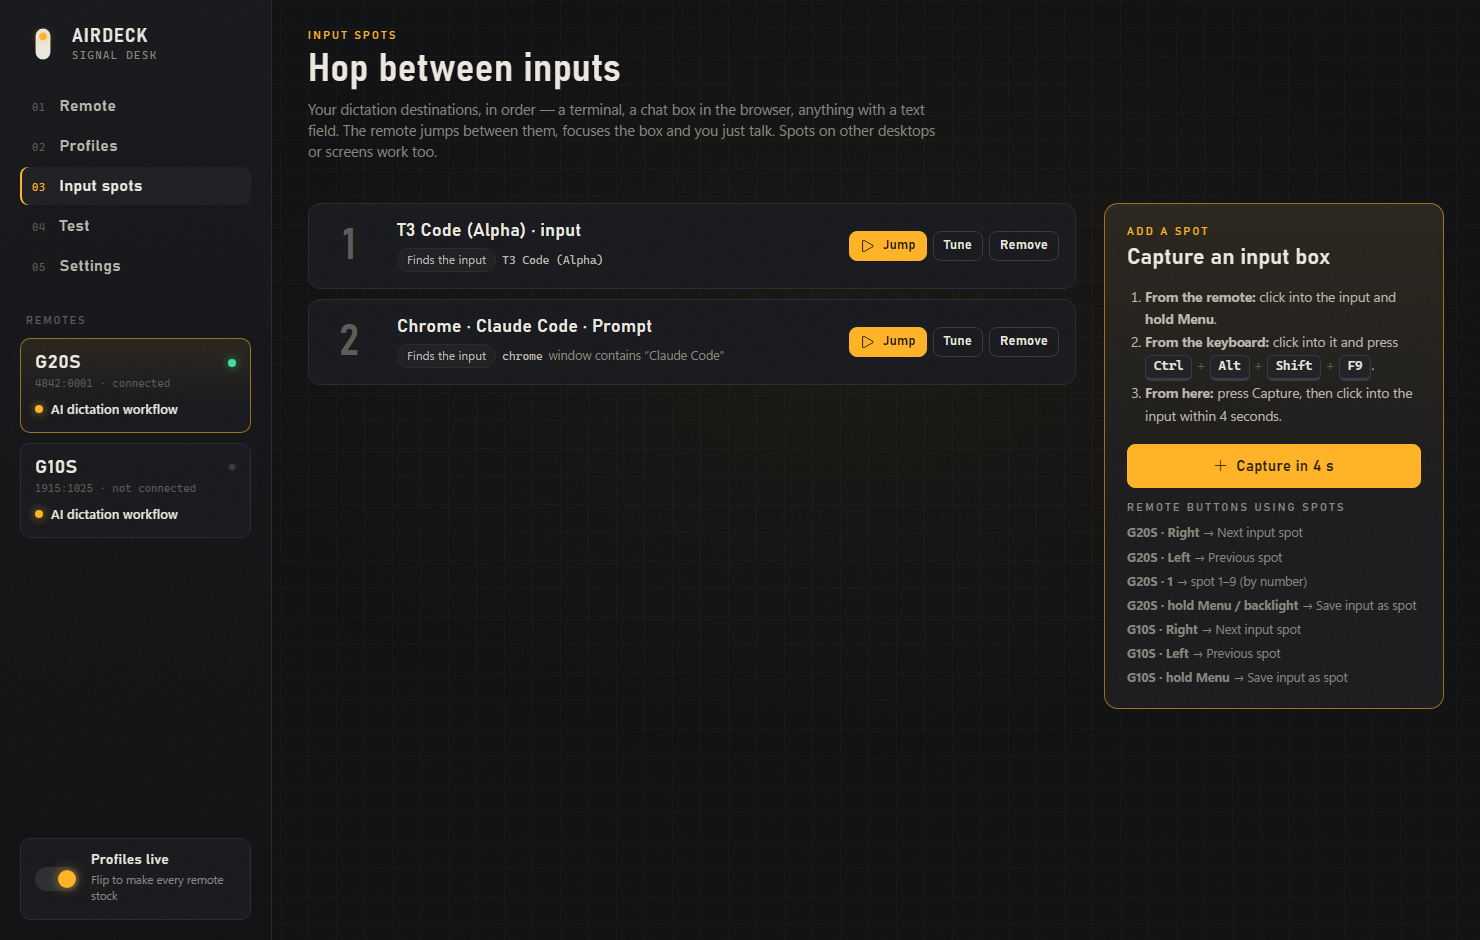
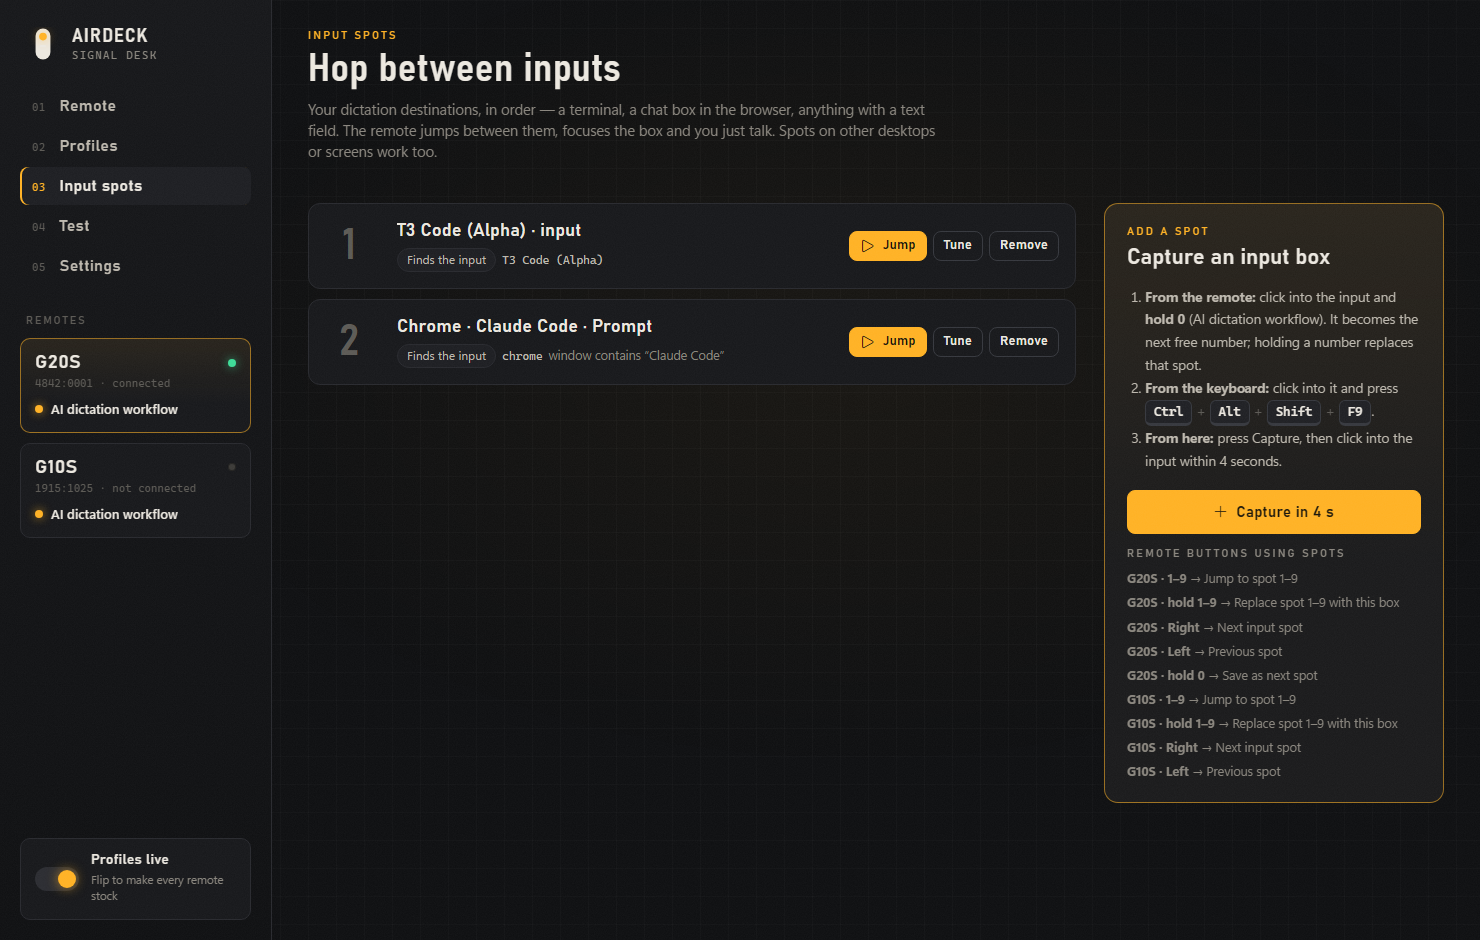
Arrow holds move windows between screens; hold 0 saves the next free spot
- AI dictation: hold Right/Left/Up/Down moves the window you're in to the screen that way
  (replaces jumping focus and "hold 0 = next screen")
- Hold 0 saves the box you're in as the next free spot; holding a number replaces that spot.
  The notice names the number; the capture picker shows the next free number
- Clearer names ("Window to left screen", "Save as next spot"); help texts no longer say hold Menu
- Input spots page lists remote bindings one line per job (1-9 collapsed)

Changed region(s): [[0.7459, 0.3394, 0.9635, 0.833]]

diff --git a/ui/app.js b/ui/app.js
@@ -78,7 +78,7 @@ const ACTIONS = [
     { id: "spot_next", name: "Next input spot", hint: "Hop to the next saved input" },
     { id: "spot_prev", name: "Previous spot", hint: "Hop back one input" },
     { id: "spot_goto", name: "Go to spot\u2026", hint: "Jump straight to one input", param: "spot" },
-    { id: "spot_capture", name: "Save input as spot", hint: "Remember the box you're in", param: "slot" },
+    { id: "spot_capture", name: "Save input as spot", hint: "Next free number, or replace one", param: "slot" },
   ]},
   { group: "Windows & screens", items: [
     { id: "app_next", name: "Next app", hint: "Like Alt+Tab, forward" },
@@ -133,9 +133,13 @@ function actionName(spec, short = false) {
       const spot = S.state.spots[(spec.spot | 0) - 1];
       return short ? `spot ${spec.spot}` : spot ? `Spot ${spec.spot} \u00B7 ${spot.label}` : `Input spot ${spec.spot}`;
     }
-    case "spot_capture": return spec.spot ? (short ? `save as spot ${spec.spot}` : `Save input as spot ${spec.spot}`) : (short ? "save spot" : "Save input as spot");
+    case "spot_capture": return spec.spot ? (short ? `save as spot ${spec.spot}` : `Save input as spot ${spec.spot}`) : (short ? "save as next spot" : "Save input as next spot");
     case "screen_focus": return short ? `screen ${spec.dir}` : `Go to screen ${DIRS[spec.dir] || spec.dir}`;
-    case "window_to_screen": return short ? "move window" : spec.dir === "next" ? "Move window to next screen" : `Move window ${DIRS[spec.dir] || spec.dir}`;
+    case "window_to_screen": {
+      const where = { left: "left", right: "right", up: "top", down: "bottom" }[spec.dir];
+      return spec.dir === "next" ? (short ? "window to next screen" : "Move window to the next screen")
+        : short ? `window to ${where} screen` : `Move window to the ${where} screen`;
+    }
     case "keys": return prettyChord(spec.keys) || "Shortcut";
     case "text": return `Type \u201C${(spec.text || "").slice(0, 18)}${(spec.text || "").length > 18 ? "\u2026" : ""}\u201D`;
     case "run": return "Open " + ((spec.run || "").split(/[\\/]/).pop() || "app");
@@ -345,7 +349,7 @@ function remoteSvg(remote, tpl, profile) {
     if (k >= 3) group = {
       ids: digits.slice(0, k).map((b) => b.id), range: `1–${k}`,
       text: `${run.spots ? "Jump to input spot" : "Jump to tab"} 1–${k}`,
-      holdText: run.save ? `Save the box as spot 1–${k}` : "",
+      holdText: run.save ? `Replace spot 1–${k} with this box` : "",
     };
   }
 
@@ -715,7 +719,7 @@ function renderInspector() {
       const at = rows.findIndex(([id]) => inRun(id));
       rows = rows.filter(([id]) => !inRun(id));
       rows.splice(at, 0, ["num_1", { action: "passthrough", label: `${run.spots ? "Jump to input spot" : "Jump to tab"} 1–${k}`, rowLabel: `1 – ${k}`,
-        hold: run.save ? { action: "spot_capture", label: `Save the box as spot 1–${k}` } : undefined }]);
+        hold: run.save ? { action: "spot_capture", label: `Replace spot 1–${k} with this box` } : undefined }]);
     }
     const vmap = variantsOf(prof);
     el.innerHTML = `
@@ -822,7 +826,7 @@ function paramEditor(slot, spec) {
     case "slot": {
       // Which spot the box you're in becomes: a new one at the end, or a numbered one (replaced if it exists).
       const spots = S.state.spots;
-      const opts = [`<option value="">A new spot at the end</option>`].concat([1, 2, 3, 4, 5, 6, 7, 8, 9].map((n) =>
+      const opts = [`<option value="">The next free number (${spots.length + 1})</option>`].concat([1, 2, 3, 4, 5, 6, 7, 8, 9].map((n) =>
         `<option value="${n}"${(spec.spot | 0) === n ? " selected" : ""}>Spot ${n}${spots[n - 1] ? ` — replaces ${esc(spots[n - 1].label)}` : ""}</option>`));
       return `<div class="param"><label>Save as</label><select class="field" data-param="${slot}:spot">${opts.join("")}</select></div>`;
     }
@@ -1174,15 +1178,23 @@ $("#viewProfiles").addEventListener("change", async (e) => {
 let openAdvanced = new Set();
 function renderSpots() {
   const st = S.state;
+  // One line per job, worded like the remote drawing: a run of numbers reads "1-9", not nine rows.
   const bindings = [];
   for (const r of st.remotes) {
     const p = profileById(r.baseProfile);
     if (!p) continue;
+    const run = digitRun((id) => p.buttons[id]);
+    const k = run.spots ? run.k : 0;
+    const inRun = (id) => k >= 2 && new RegExp(`^num_[1-${k}]$`).test(id);
+    const line = (how, keyName, text) => bindings.push(`<div><b>${esc(r.name)} · ${how}${esc(keyName)}</b> → ${esc(text)}</div>`);
+    if (k >= 2) {
+      line("", `1–${k}`, `Jump to spot 1–${k}`);
+      if (run.save) line("hold ", `1–${k}`, `Replace spot 1–${k} with this box`);
+    }
     for (const [id, spec] of Object.entries(p.buttons)) {
-      if (!r.buttons.some((b) => b.id === id)) continue;
-      for (const [how, s] of [["", spec], ["hold ", spec.hold], ["2\u00D7 ", spec.double]]) {
-        if (s && /^spot_/.test(s.action) && !(s.action === "spot_goto" && s.spot > 1)) bindings.push(`<div><b>${esc(r.name)} \u00B7 ${how}${esc(buttonLabel(id, r.id))}</b> \u2192 ${esc(s.action === "spot_goto" ? "spot 1\u20139 (by number)" : actionName(s))}</div>`);
-      }
+      if (!r.buttons.some((b) => b.id === id) || inRun(id)) continue;
+      for (const [how, sp] of [["", spec], ["hold ", spec.hold], ["2× ", spec.double]])
+        if (sp && /^spot_/.test(sp.action)) line(how, buttonLabel(id, r.id), cap1(actionName(sp, true)));
     }
   }
   $("#viewSpots").innerHTML = `
@@ -1223,7 +1235,7 @@ function renderSpots() {
         <div class="eyebrow">Add a spot</div>
         <h3 style="margin-top:8px">Capture an input box</h3>
         <ol>
-          <li><b>From the remote:</b> click into the input and <b>hold Menu</b>.</li>
+          <li><b>From the remote:</b> click into the input and <b>hold 0</b> (AI dictation workflow). It becomes the next free number; holding a number replaces that spot.</li>
           <li><b>From the keyboard:</b> click into it and press <span class="keycap">Ctrl</span><span class="plus">+</span><span class="keycap">Alt</span><span class="plus">+</span><span class="keycap">Shift</span><span class="plus">+</span><span class="keycap">F9</span>.</li>
           <li><b>From here:</b> press Capture, then click into the input within 4 seconds.</li>
         </ol>

diff --git a/tools/src/AirdeckApp.cs b/tools/src/AirdeckApp.cs
@@ -814,7 +814,7 @@ class Controller : IDisposable
     void StepSpot(int delta)
     {
         int n = SpotList.Count;
-        if (n == 0) { ShowNotice("spot", "No input spots yet", "Click into a text box and press Menu (or Ctrl+Alt+Shift+F9)"); return; }
+        if (n == 0) { ShowNotice("spot", "No input spots yet", "Click into a text box and hold 0 (or press Ctrl+Alt+Shift+F9)"); return; }
         var fg = Spots.Foreground;
         int cur = lastSpot >= 0 && lastSpot < n && Spots.Matches(SpotList[lastSpot], fg) ? lastSpot : SpotList.FindIndex(s => Spots.Matches(s, fg));
         JumpSpot(cur < 0 ? (delta > 0 ? 0 : n - 1) : ((cur + delta) % n + n) % n);
@@ -824,7 +824,7 @@ class Controller : IDisposable
     {
         if (index < 0 || index >= SpotList.Count)
         {
-            ShowNotice("spot", "No spot " + (index + 1), SpotList.Count == 0 ? "Save one with Menu or Ctrl+Alt+Shift+F9" : "You have " + SpotList.Count + " input spot" + (SpotList.Count == 1 ? "" : "s"));
+            ShowNotice("spot", "No spot " + (index + 1), SpotList.Count == 0 ? "Save one by holding 0 or with Ctrl+Alt+Shift+F9" : "You have " + SpotList.Count + " input spot" + (SpotList.Count == 1 ? "" : "s") + "; hold 0 to add the next");
             return;
         }
         if (Interlocked.CompareExchange(ref jumping, 1, 0) != 0) return;

diff --git a/README.md b/README.md
@@ -25,7 +25,7 @@ Airdeck fixes that. It works out **which physical device** each key came from an
 - **Profiles per remote.** *AI dictation workflow*, *Media & video*, *Video calls*, *Couch browsing*, *Presenting*, *Stock*, or your own. Cycle them from the remote itself (Menu), the app, the tray, or a hotkey. A small notice in the corner tells you where you landed; notices stack in order, and repeats of the same kind update in place.
 - **Per-app variants (optional).** A profile can swap in a variant while a given app is in front, for example to give OK a different meaning in one editor. Variants only store what they change. None ship by default, so every button does the same thing everywhere.
 - **Tap, hold and double-tap.** Every button can do up to three things. For example, OK sends Enter and holding it sends Ctrl+Enter.
-- **Multi-monitor.** Hold an arrow to jump to the screen in that direction (pointer and focus). Hold 0 to throw the current window to the next screen. Screens are found by their real arrangement, so a monitor above works too.
+- **Multi-monitor.** Hold an arrow to move the window you're in to the screen in that direction; it keeps its size and position, and a maximised window stays maximised. Screens are found by their real arrangement, so a monitor above works too.
 - **Wispr Flow built in.** Push-to-talk (hold), hands-free toggle, command mode and cancel. Flow's shortcuts are read from its own settings.
 - **Input spots.** Save the input boxes you dictate into (a VS Code terminal, a browser chat box, anything). The remote hops between them, finds the box with UI Automation (or clicks the remembered spot) and puts the caret there. It even switches to the right browser tab.
 - **Desktop control.** App switching (most-recently-used, like Alt+Tab), virtual desktops, shortcuts, text snippets, clicks, launching apps.
@@ -106,11 +106,11 @@ Windows blocks input from normal apps into elevated windows. Use *Settings → R
 | Voice | Wispr Flow hands-free on/off | | |
 | OK | Enter: send what you dictated | Ctrl+Enter | New line (Shift+Enter) |
 | Back | Cancel the dictation | Clear the box | Undo |
-| Right / Left | Next / previous input spot | Go to the screen on the right / left | |
-| Up / Down | Normal arrows | Go to the screen above / below | |
+| Right / Left | Next / previous input spot | Move the window you're in to the screen on the right / left | |
+| Up / Down | Normal arrows | Move the window you're in to the screen above / below | |
 | Pg+ / Pg- | Previous / next app (keep pressing to walk further back, like Alt+Tab) | Desktop to the left / right | |
-| 1–9 | Jump straight to input spot *n* | Save the box you're in as spot *n* (like a radio preset) | |
-| 0 | Paste the last Flow transcript | Move the window to the next screen | |
+| 1–9 | Jump straight to input spot *n* | Replace spot *n* with the box you're in | |
+| 0 | Paste the last Flow transcript | Save the box you're in as the next free spot | |
 | DEL | Delete the previous word | | |
 | Menu | Next profile | | |
 | Volume, media keys | Unchanged | | |
